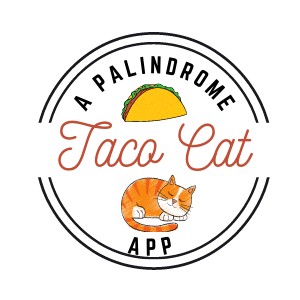
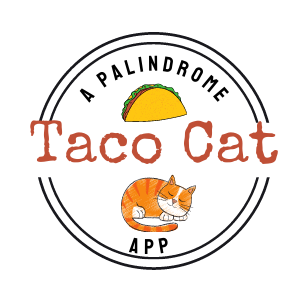
Added the JS Code to the Code page
Added Code to the prism app, updated Taco Cat logo

Changed region(s): [[0.09, 0.18, 0.78, 0.57], [0.57, 0.39, 0.93, 0.57], [0.42, 0.78, 0.57, 0.87]]

diff --git a/code.html b/code.html
@@ -58,17 +58,75 @@
         <div class="row row-cols-1 row-cols-lg-2">
             <div class="col-lg-8">
                 <pre class="line-numbers"><code class="language-javascript">
-                        // Call Hello World 
-                        function HelloWorld(){
-                         alert("hello world");
+                    //Controller Function
+                    //Get string data from the page
+                    function getString() {
+                    
+                        document.getElementById("alert").classList.add("invisible");
+                    
+                        let userString = document.getElementById("userString").value; 
+                    
+                        let returnObj = palindrome(userString);
+                    
+                        displayResults(returnObj);
+                    }
+                    
+                    //Logic Function
+                    //Identify if the string is a palindrome
+                    function palindrome(userString){
+                    
+                        let returnObj = {};
+                        //make string lowercase and remove whitespace, special characters
+                        userString = userString.toLowerCase();
+                        let regex = /[^a-z0-9]/gi;
+                        userString = userString.replace(regex,"");
+                    
+                        //reverse the string
+                        let revString = [];
+                        for(let i = userString.length-1; i >= 0; i--){
+                            revString += userString[i];
                         }
+                    
+                        //check if the string is same forward and backward
+                        if(revString == userString) {
+                            returnObj.msg = "Yes!  You entered a palindrome"
+                        } else {
+                            returnObj.msg = "Nope! you did not enter a palindrome"
+                        }
+                    
+                        returnObj.reversed = revString;
+                    
+                        return returnObj;
+                    }
+                    
+                    //Display Function
+                    //Display the output on the screen
+                    function displayResults(returnObj) {
+                        //turn on alert box
+                        document.getElementById("alert").classList.remove("invisible");
+                    
+                        document.getElementById("alertHeader").innerHTML = returnObj.msg;
+                        document.getElementById("msg").innerHTML = `Your phrase reversed is: ${returnObj.reversed} `;
+                    }
                     </code>
                 </pre>
             </div>
             <div class="col-lg-4">
-                <p>The Code is structured in one function.</p>
-                <h5>Hello World</h5>
-                <p>Hello World is a function that displays an alert with a message of 'Hello World'</p>
+                <p>The Code is structured in three functions.</p>
+                <h5>Taco Cat</h5>
+                <p>Taco Cat is an application that checks whether a word or phrase is a palindrome</p>
+                <p>The get string function is the controller function for the app. It gets the user input from the screen, 
+                    calls the palindrome function to check if it is a palindrome, and then calls the display function to 
+                    display the output on the screen.
+                </p>
+                <p>The palindrome function is the logic function. It checks if the input value is the same forwards and backwards, once 
+                    capitalization, whitespace, and special characters are removed. The result is stored in a object that holds both an output 
+                    message and the value of the reversed input string.
+                </p>
+                <p>
+                    The display function turns on the 'alert' to indicate that the string has been checked. It also displays the message and 
+                    reversed string that were stored in the output object from the palindrome function. 
+                </p>
             </div>
         </div>
     </div>
